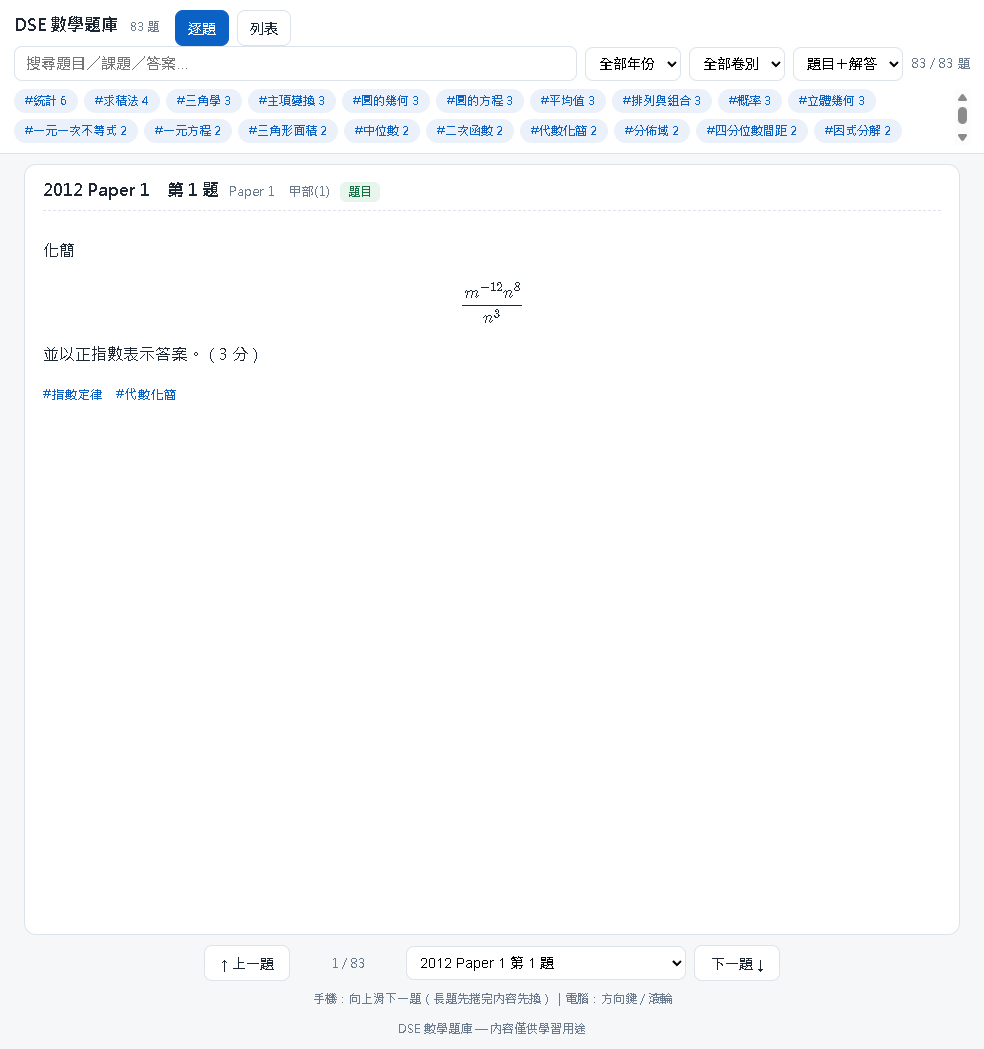
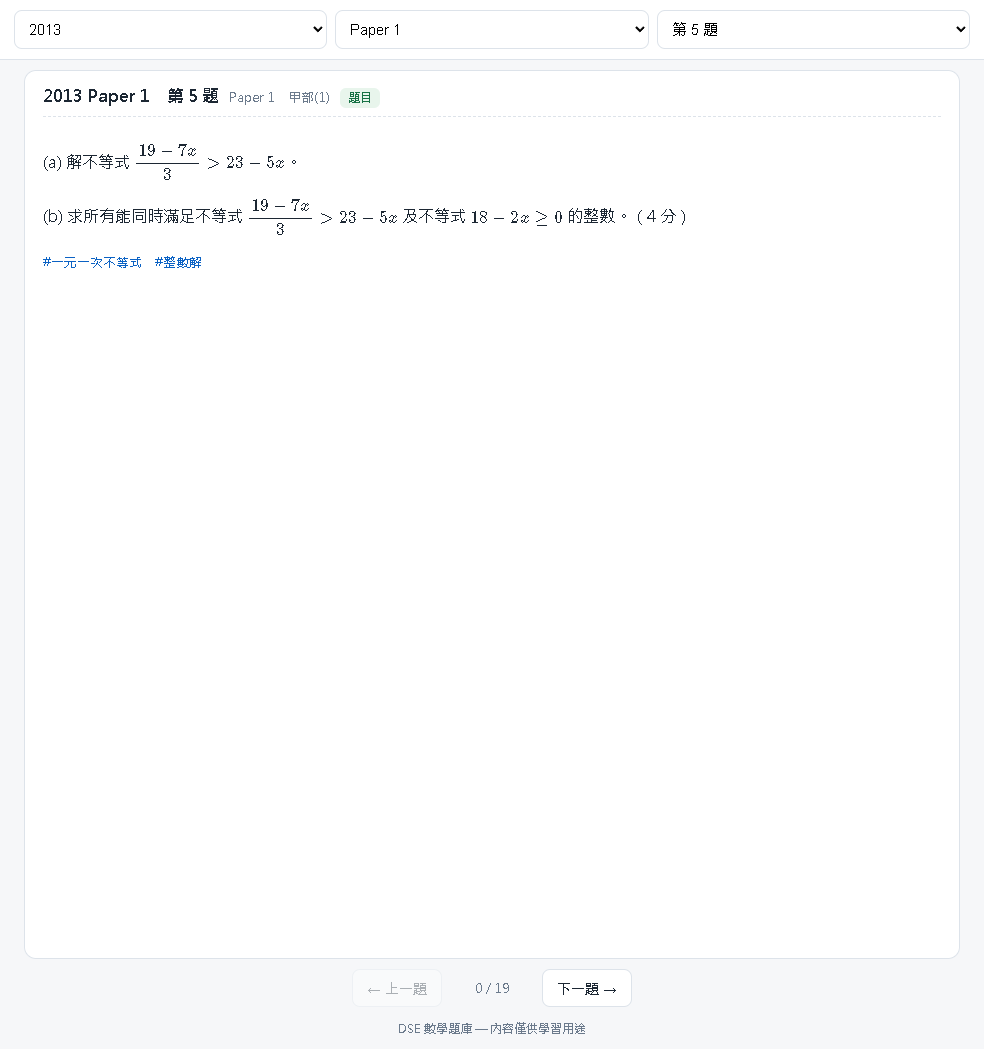
show() 同步 year/paper/qlist：hash 直達後進度與導航正確

diff --git a/docs/index.html b/docs/index.html
@@ -106,6 +106,8 @@ let curQ = null;
 function show(q) {
   curQ = q;
   qno = q.qno;
+  year = q.year; paper = q.paper;      // 確保 qlist 對應該題（hash 直達用）
+  syncSelectors();                     // 重建 year/paper/題號 selectors + qlist
   $('#dqno').textContent = `${q.year} ${q.paper}　${q.title}`;
   $('#dmeta').textContent = q.section;
   $('#dbadge').textContent = q.type;
@@ -117,7 +119,6 @@ function show(q) {
   $('#pos').textContent = `${i+1} / ${qlist.length}`;
   $('#prev').disabled = i <= 0;
   $('#next').disabled = i >= qlist.length - 1;
-  syncSelectors();
   location.hash = `${q.year}P${pno(q.paper)}Q${q.qno}${q.type==='解答'?'A':''}`;
   if (window.MathJax?.typesetPromise) MathJax.typesetPromise($('#qbody'));
 }
